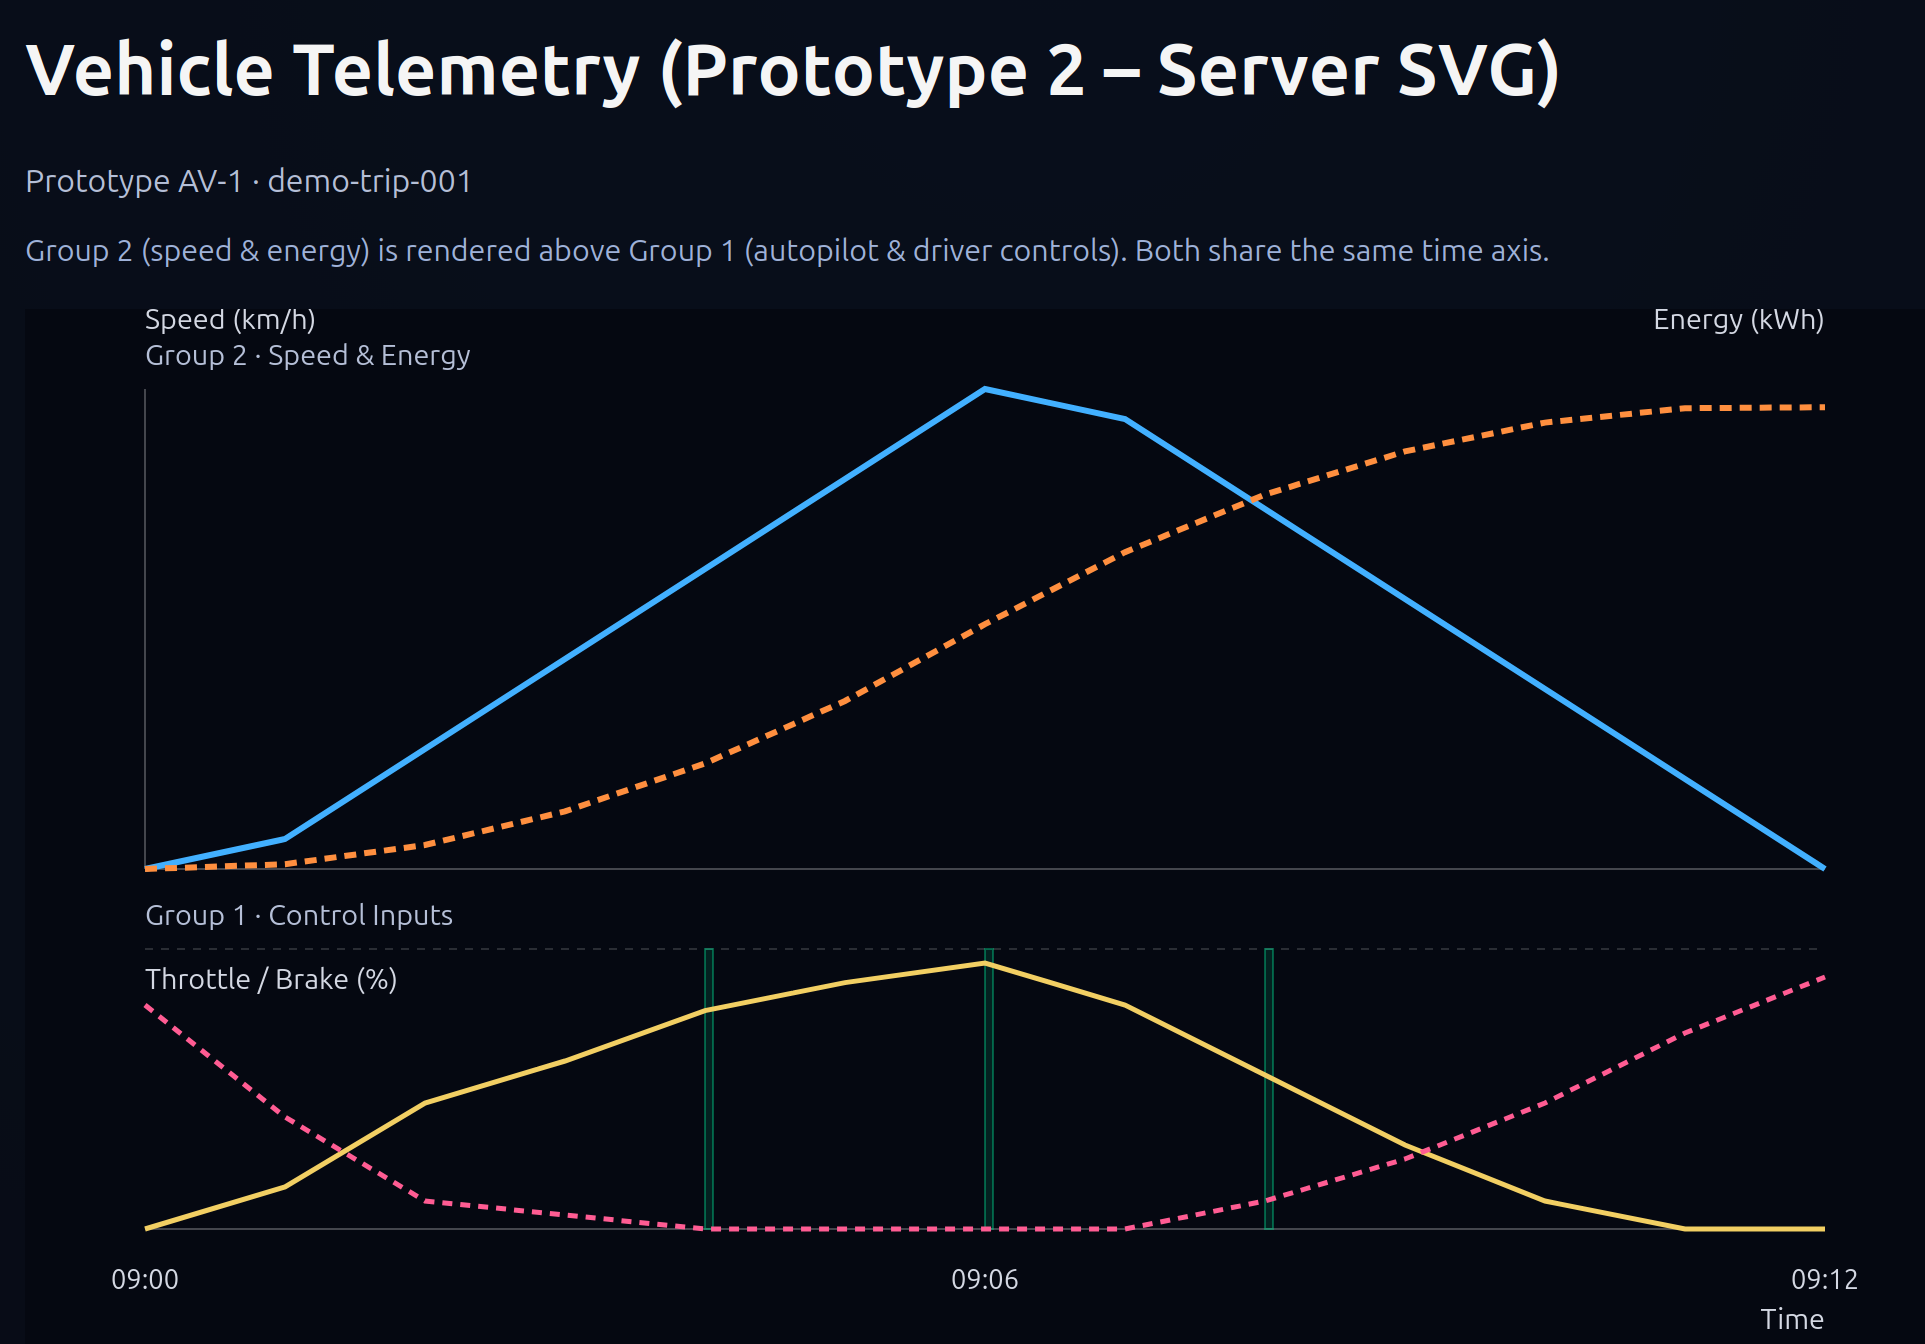
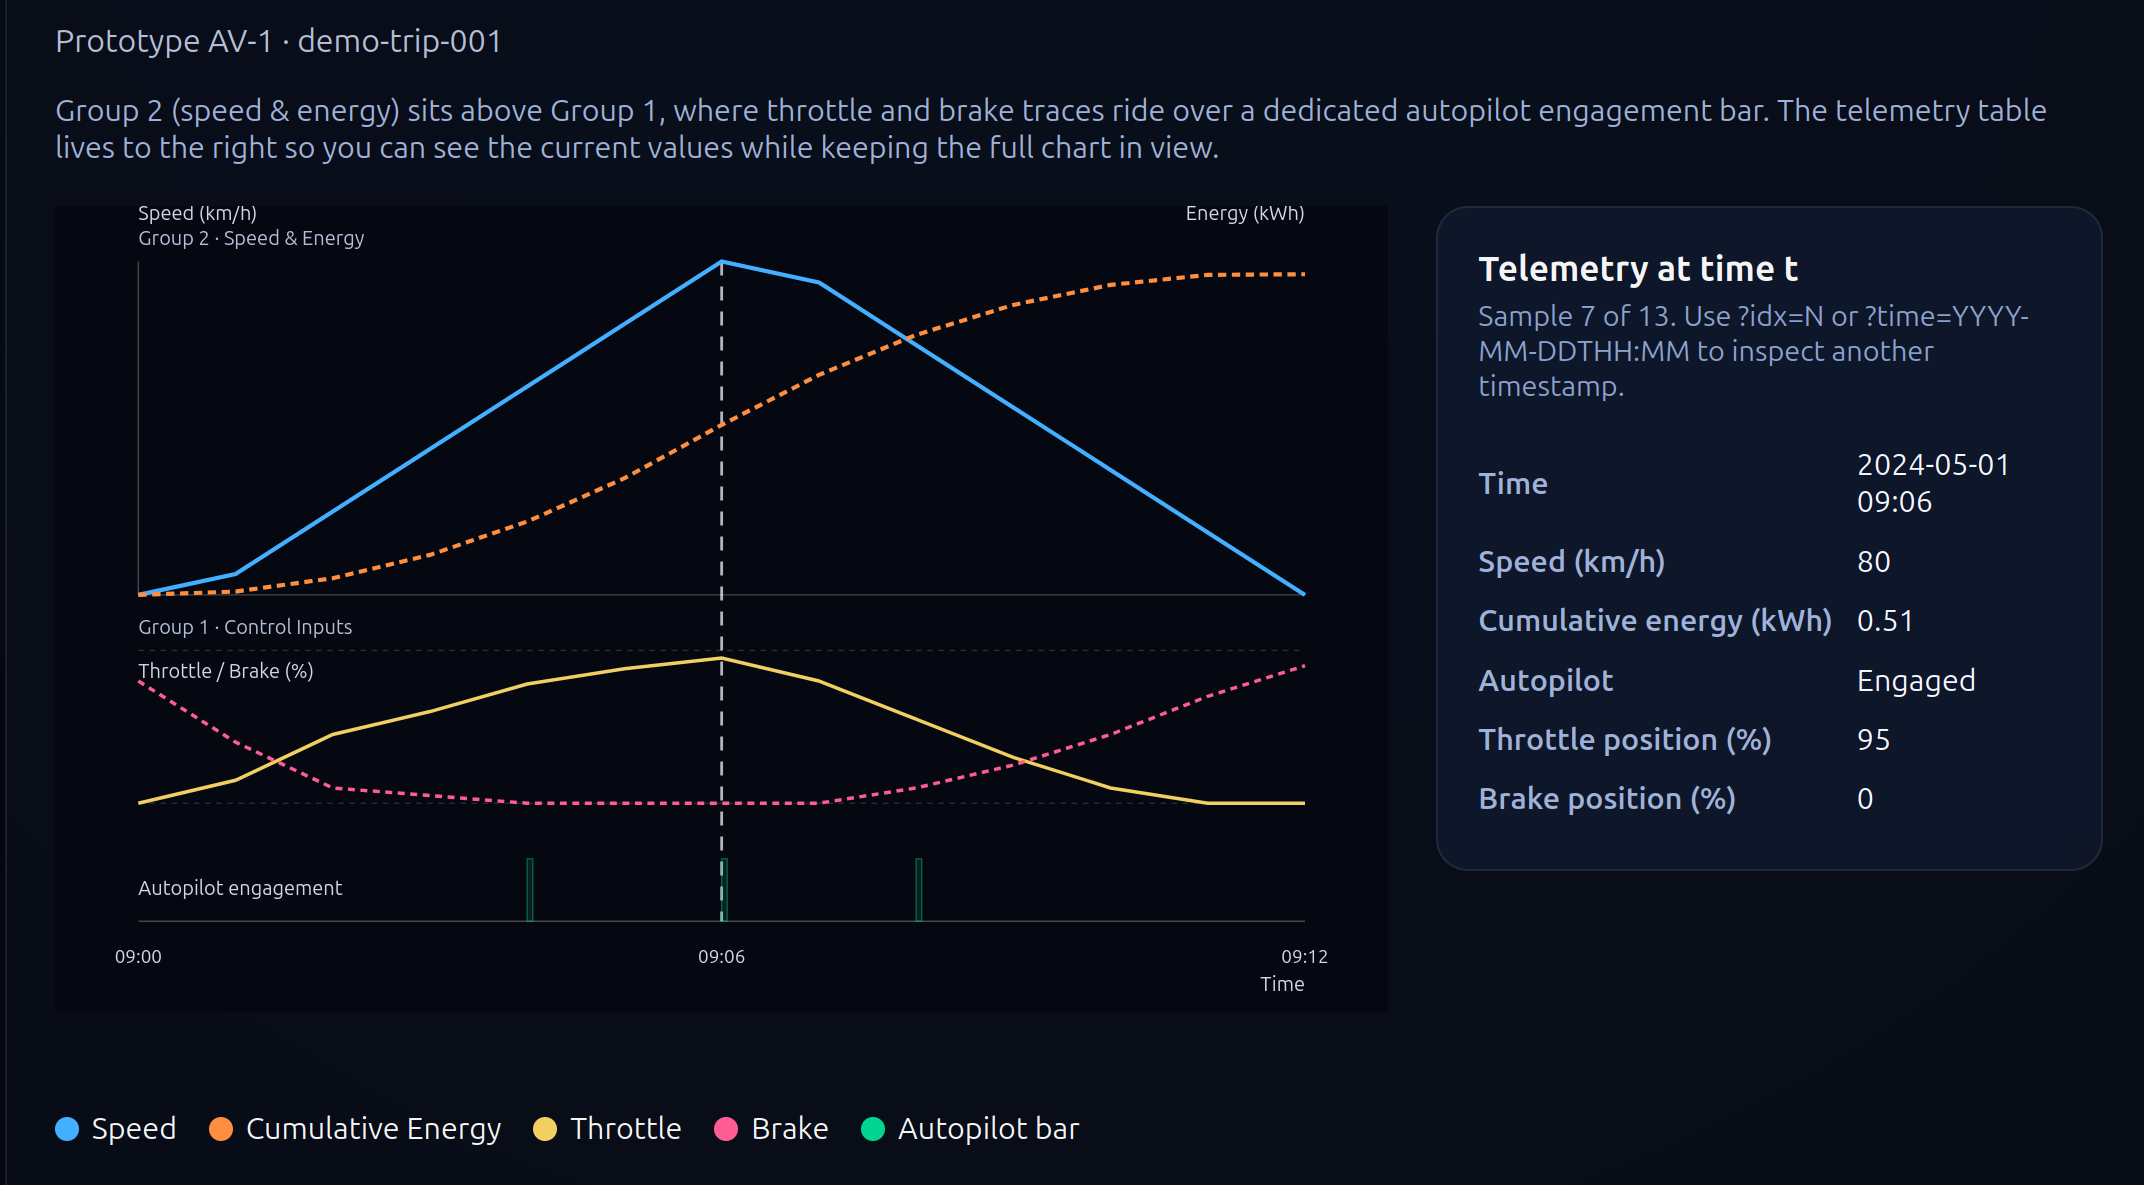
fix image

diff --git a/server.py b/server.py
@@ -32,8 +32,16 @@ def build_sample_data() -> List[Dict[str, object]]:
         delta_kwh = max(speeds[idx], 1) * 0.002  # crude approximation
         energy.append(round(energy[-1] + delta_kwh, 3))
 
-    for idx, speed in enumerate(speeds):
-        autopilot.append(speed >= 40 and idx % 2 == 0)
+    # Craft autopilot bands with varying lengths so the engagement bar shows
+    # distinct segments rather than a repeating on/off cadence.
+    autopilot_segments = [(1, 3), (5, 9), (11, 12)]
+    engaged_lookup = [False] * len(speeds)
+    for start, end in autopilot_segments:
+        for idx in range(start, min(end + 1, len(engaged_lookup))):
+            engaged_lookup[idx] = True
+
+    for idx, _ in enumerate(speeds):
+        autopilot.append(engaged_lookup[idx])
 
     points = []
     for idx, speed in enumerate(speeds):
